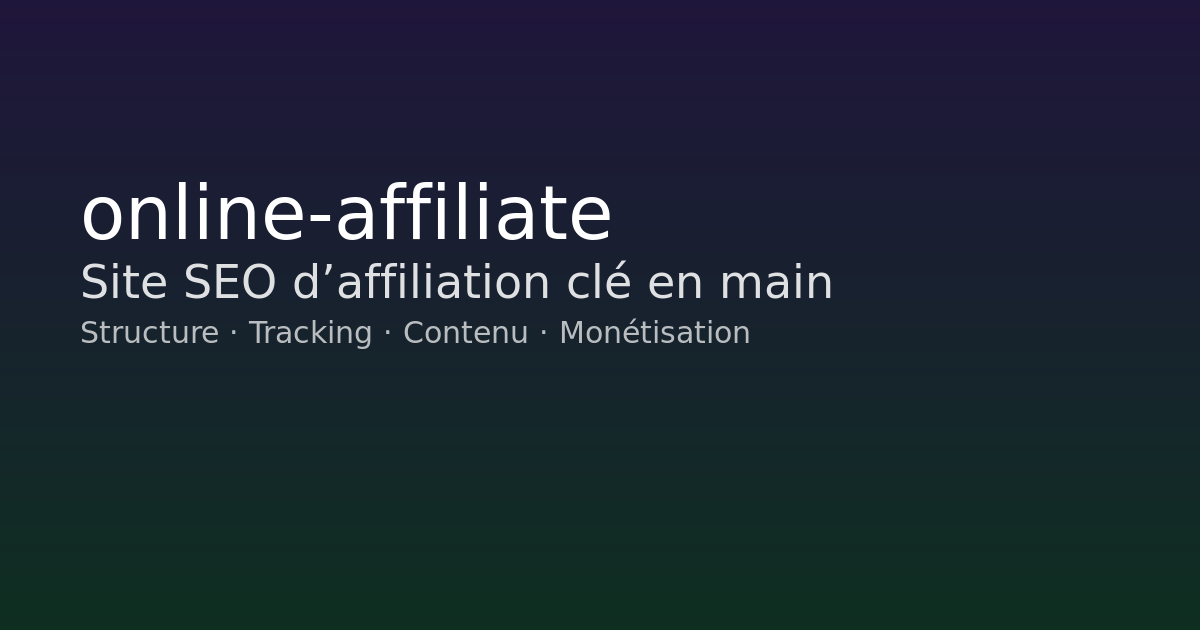
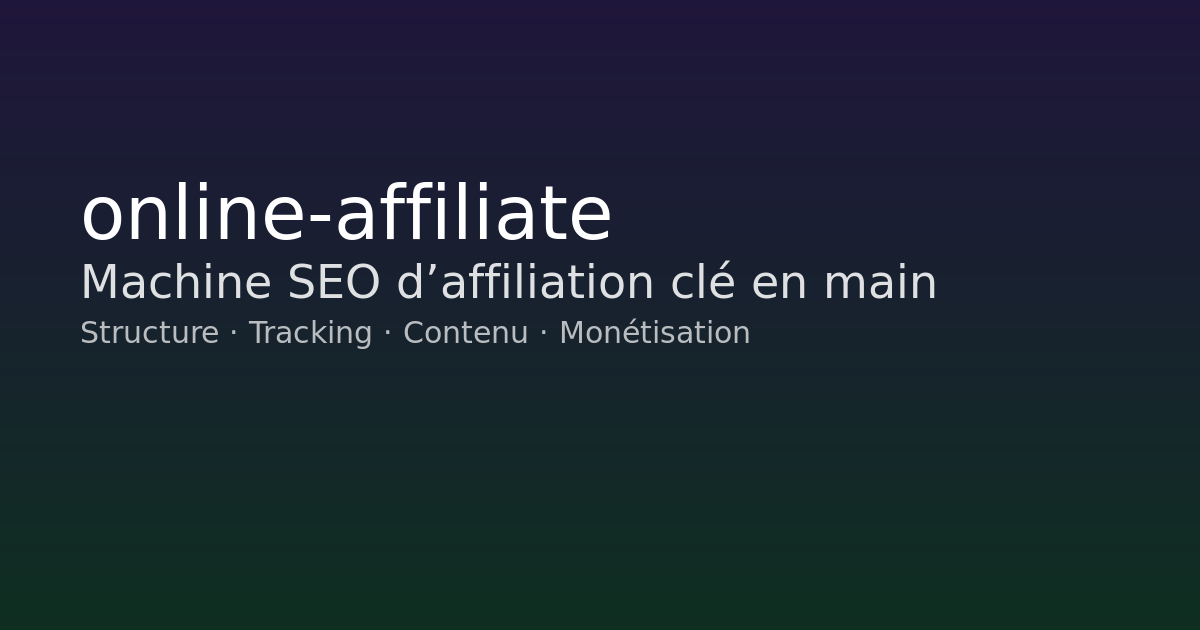
copy: emphasize passive-income positioning

Changed region(s): [[0.0617, 0.3921, 0.8017, 0.4825]]

diff --git a/index.html b/index.html
@@ -3,20 +3,20 @@
   <head>
     <meta charset="utf-8" />
     <meta name="viewport" content="width=device-width, initial-scale=1" />
-    <title>Site SEO d’affiliation clé en main | online-affiliate</title>
+    <title>Machine SEO d’affiliation clé en main | online-affiliate</title>
     <meta
       name="description"
-      content="Site SEO d’affiliation clé en main : structure, tracking, conformité, monétisation et contenu. Compose ton pack et vois le prix en temps réel."
+      content="Une machine SEO d’affiliation clé en main pour viser des revenus passifs à terme : site, tracking, monétisation, conformité et contenu. Accessible même si tu débutes."
     />
     <link rel="canonical" href="https://online-affiliate.com/" />
 
     <meta property="og:type" content="website" />
     <meta property="og:site_name" content="online-affiliate" />
     <meta property="og:locale" content="fr_FR" />
-    <meta property="og:title" content="Site SEO d’affiliation clé en main" />
+    <meta property="og:title" content="Machine SEO d’affiliation clé en main" />
     <meta
       property="og:description"
-      content="Site SEO d’affiliation clé en main : structure, tracking, conformité, monétisation et contenu. Compose ton pack et vois le prix en temps réel."
+      content="Une machine SEO d’affiliation clé en main pour viser des revenus passifs à terme : site, tracking, monétisation, conformité et contenu. Accessible même si tu débutes."
     />
     <meta property="og:url" content="https://online-affiliate.com/" />
     <meta property="og:image" content="https://online-affiliate.com/assets/og-image.png" />
@@ -24,10 +24,10 @@
     <meta property="og:image:height" content="630" />
 
     <meta name="twitter:card" content="summary_large_image" />
-    <meta name="twitter:title" content="Site SEO d’affiliation clé en main" />
+    <meta name="twitter:title" content="Machine SEO d’affiliation clé en main" />
     <meta
       name="twitter:description"
-      content="Site SEO d’affiliation clé en main : structure, tracking, conformité, monétisation et contenu. Compose ton pack et vois le prix en temps réel."
+      content="Une machine SEO d’affiliation clé en main pour viser des revenus passifs à terme : site, tracking, monétisation, conformité et contenu. Accessible même si tu débutes."
     />
     <meta name="twitter:image" content="https://online-affiliate.com/assets/og-image.png" />
 
@@ -65,8 +65,8 @@
             "@type": "WebPage",
             "@id": "https://online-affiliate.com/#webpage",
             "url": "https://online-affiliate.com/",
-            "name": "Site SEO d’affiliation clé en main",
-            "description": "Site SEO d’affiliation clé en main : structure, tracking, conformité, monétisation et contenu. Compose ton pack et vois le prix en temps réel.",
+            "name": "Machine SEO d’affiliation clé en main",
+            "description": "Une machine SEO d’affiliation clé en main pour viser des revenus passifs à terme : site, tracking, monétisation, conformité et contenu. Accessible même si tu débutes.",
             "isPartOf": { "@id": "https://online-affiliate.com/#website" },
             "about": { "@id": "https://online-affiliate.com/#organization" },
             "inLanguage": "fr-FR"
@@ -89,6 +89,14 @@
                 "acceptedAnswer": {
                   "@type": "Answer",
                   "text": "Oui. Par défaut, on gère le process de bout en bout. Si une plateforme exige une validation (email/SMS/KYC), on te guide sur l’étape puis on reprend."
+                }
+              },
+              {
+                "@type": "Question",
+                "name": "C’est vraiment du revenu passif ?",
+                "acceptedAnswer": {
+                  "@type": "Answer",
+                  "text": "L’objectif est de construire un actif SEO : une fois amorcé (structure + contenu + maillage), il peut continuer à générer du trafic et des clics affiliés même quand tu ne travailles pas dessus tous les jours. Il reste une part d’exécution et de maintenance. Aucun revenu n’est garanti."
                 }
               },
               {
@@ -169,15 +177,17 @@
         <div class="container">
           <div class="hero-grid">
             <div class="hero-text">
-              <p class="kicker">Affiliation clé en main</p>
-              <h1>Ta machine d’affiliation, livrée et configurée.</h1>
+              <p class="kicker">Machine SEO d’affiliation</p>
+              <h1>Ta machine SEO d’affiliation, pour viser des revenus passifs.</h1>
               <p class="lead">
-                Je mets en place toute la machine&nbsp;: <strong>site</strong>, <strong>tracking</strong>, <strong>conformité</strong>,
-                <strong>monétisation</strong>, et si tu veux, <strong>du contenu publié</strong>.
+                Je mets en place toute la machine&nbsp;: <strong>site SEO</strong>, <strong>tracking</strong>, <strong>conformité</strong>,
+                <strong>monétisation</strong>, et si tu veux, <strong>du contenu publié</strong>. Objectif&nbsp;: construire un actif SEO qui
+                peut générer des revenus <strong>passifs à terme</strong>, sans te perdre dans la technique.
               </p>
               <ul class="hero-list">
                 <li><strong>Clé en main</strong> : domaine inclus (1 an), DNS, hébergement, mise en ligne.</li>
                 <li><strong>Mesurable</strong> : GA4 + Search Console + tracking des clics (UTM/events).</li>
+                <li><strong>Accessible</strong> : pas besoin d’être dev/SEO, on te guide étape par étape.</li>
                 <li><strong>Prix clair</strong> : options + paliers + total en direct.</li>
                 <li><strong>Transférable</strong> : comptes à ton nom, accès remis.</li>
               </ul>
@@ -201,7 +211,7 @@
                 </ul>
                 <div class="divider"></div>
                 <p class="micro-note">
-                  Commencez simple, validez la niche, puis ajoutez monétisation et contenu au fil de l’eau.
+                  Commence simple, valide la niche, puis ajoute monétisation et contenu au fil de l’eau.
                 </p>
               </div>
             </div>
@@ -214,7 +224,8 @@
           <div class="section-head" style="text-align: center; max-width: 600px; margin: 0 auto;">
             <h2>Pour qui c’est fait</h2>
             <p class="muted">
-              Une offre productisée pour construire un actif SEO/affiliation sur le long terme, sans te perdre dans la technique.
+              Une offre productisée pour construire un actif SEO/affiliation qui vise des revenus passifs à terme, même si tu débutes et sans
+              te perdre dans la technique.
             </p>
           </div>
 
@@ -223,7 +234,7 @@
                 <h3 class="h3">Idéal si…</h3>
                 <ul class="check">
                   <li>Tu veux lancer une niche sans devenir dev/SEO.</li>
-                  <li>Tu veux un système d’affiliation complet.</li>
+                  <li>Tu veux un système d’affiliation complet (pour viser du revenu passif).</li>
                   <li>Tu as un horizon SEO réaliste (3–9 mois).</li>
                   <li>Tu veux démarrer propre, puis scaler.</li>
                 </ul>
@@ -246,7 +257,8 @@
           <div class="section-head" style="text-align: center; max-width: 600px; margin: 0 auto;">
             <h2>Ce que ça change (concrètement)</h2>
             <p class="muted">
-              Tu ne payes pas “un site”. Tu payes une machine prête à monétiser et un cadre clair pour continuer sans t’éparpiller.
+              Tu ne payes pas “un site”. Tu payes une machine SEO d’affiliation conçue pour viser des revenus passifs à terme, avec une
+              méthode claire pour publier, mesurer et améliorer.
             </p>
           </div>
 
@@ -270,6 +282,16 @@
                 <div class="feature-body">
                   <h3>Tu pilotes</h3>
                   <p class="muted">Avec GA4/GSC + tracking clics, tu vois quelles pages amènent du trafic, lesquelles convertissent, et tu sais quoi faire ensuite.</p>
+                </div>
+              </div>
+              <div class="feature-row">
+                <div class="feature-mark">04</div>
+                <div class="feature-body">
+                  <h3>Tu construis un actif</h3>
+                  <p class="muted">
+                    Le “passif” vient avec le temps&nbsp;: une fois amorcé (contenu + maillage + conversion), le site peut continuer à
+                    générer du trafic et des clics affiliés, avec une maintenance légère et des itérations.
+                  </p>
                 </div>
               </div>
           </div>
@@ -1065,6 +1087,14 @@
 	              </p>
 	            </details>
             <details>
+              <summary>C’est vraiment du revenu passif ?</summary>
+              <p>
+                L’objectif est de construire un <strong>actif SEO</strong> : une fois amorcé (structure + contenu + maillage), il peut
+                continuer à générer du trafic et des clics affiliés même quand tu ne travailles pas dessus tous les jours. Il reste une part
+                d’exécution et de maintenance (publier, optimiser, ajouter des programmes). Aucun revenu n’est garanti.
+              </p>
+            </details>
+            <details>
               <summary>Est-ce que tu garantis un revenu ?</summary>
               <p>
                 Non. L’affiliation/SEO dépend de la niche, concurrence, saisonnalité, programmes, et du volume/qualité du contenu. Je
@@ -1124,9 +1154,10 @@
         <div class="container">
           <div class="cta-inner">
             <div>
-              <h2>Prêt à lancer ?</h2>
+              <h2>Prêt à lancer ta machine ?</h2>
               <p class="muted">
-                Commence par un pack minimal (fondations + monétisation), puis ajoute du contenu quand tu valides la niche.
+                Commence par un pack minimal (fondations + monétisation), puis ajoute du contenu pour amorcer ton actif SEO (revenus passifs à
+                terme).
                 Besoin d’inspiration&nbsp;? <a class="link" href="#niches">Voir le classement des niches</a>.
               </p>
             </div>
